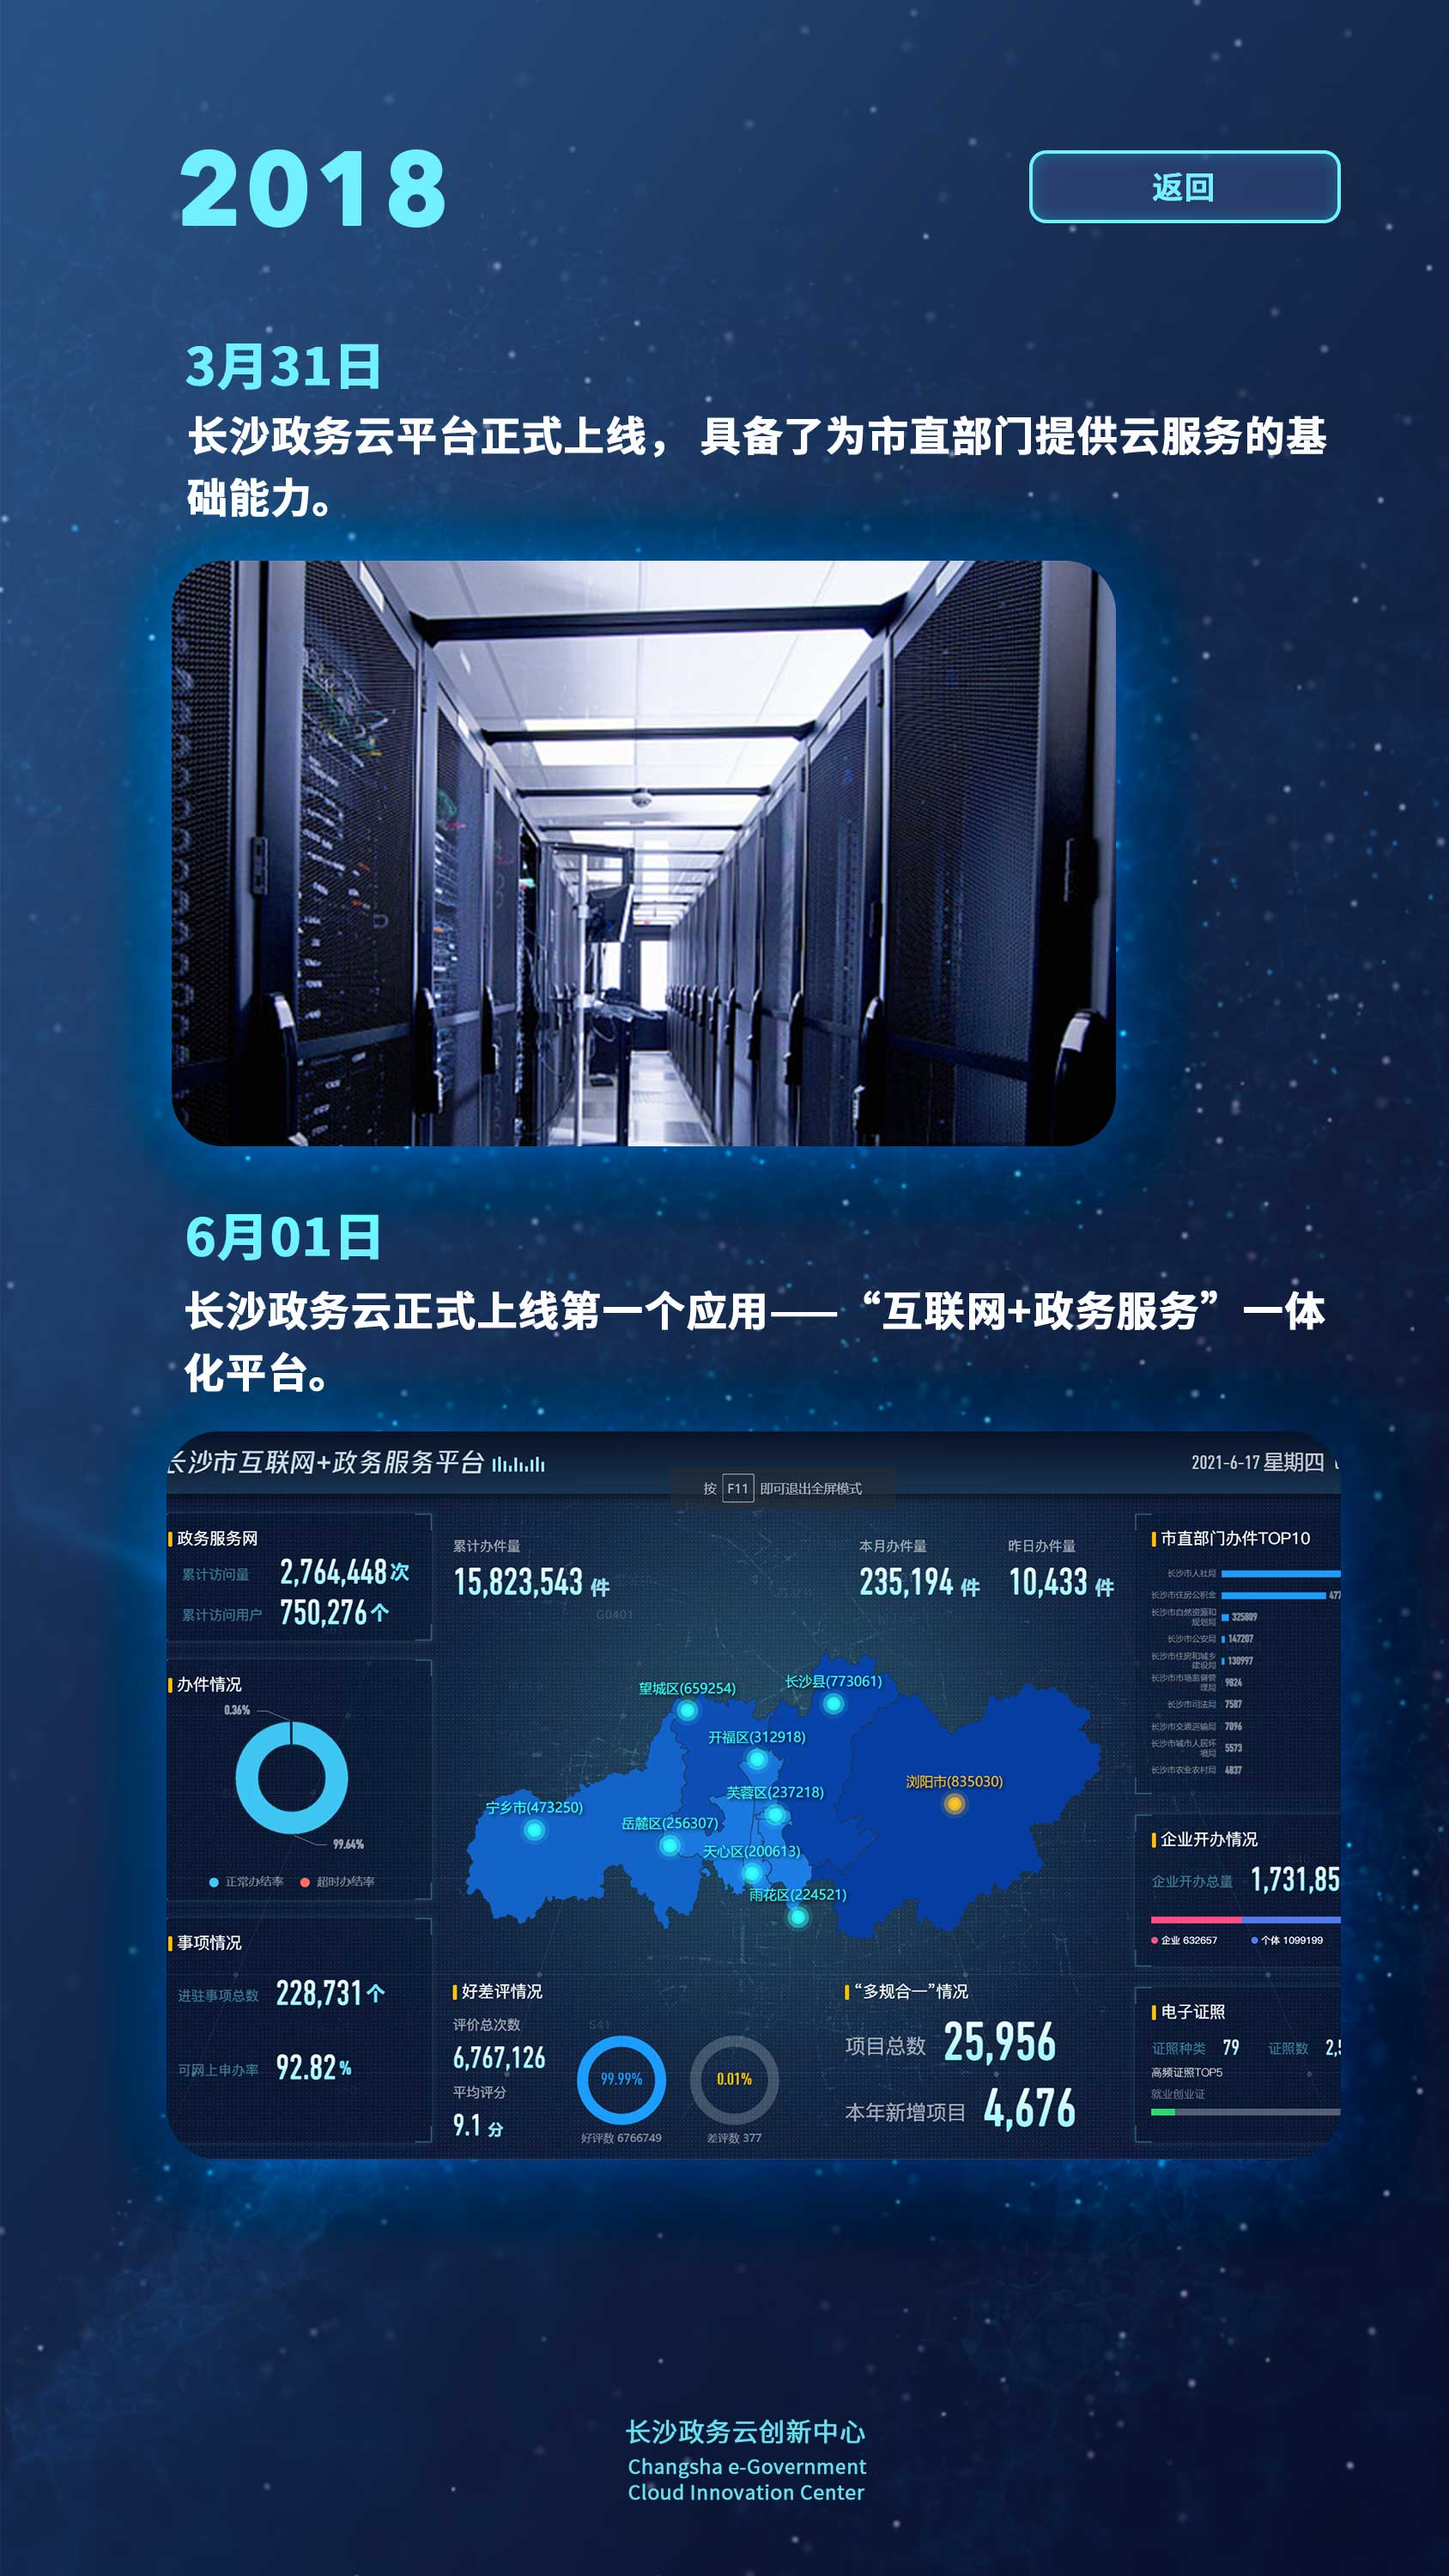
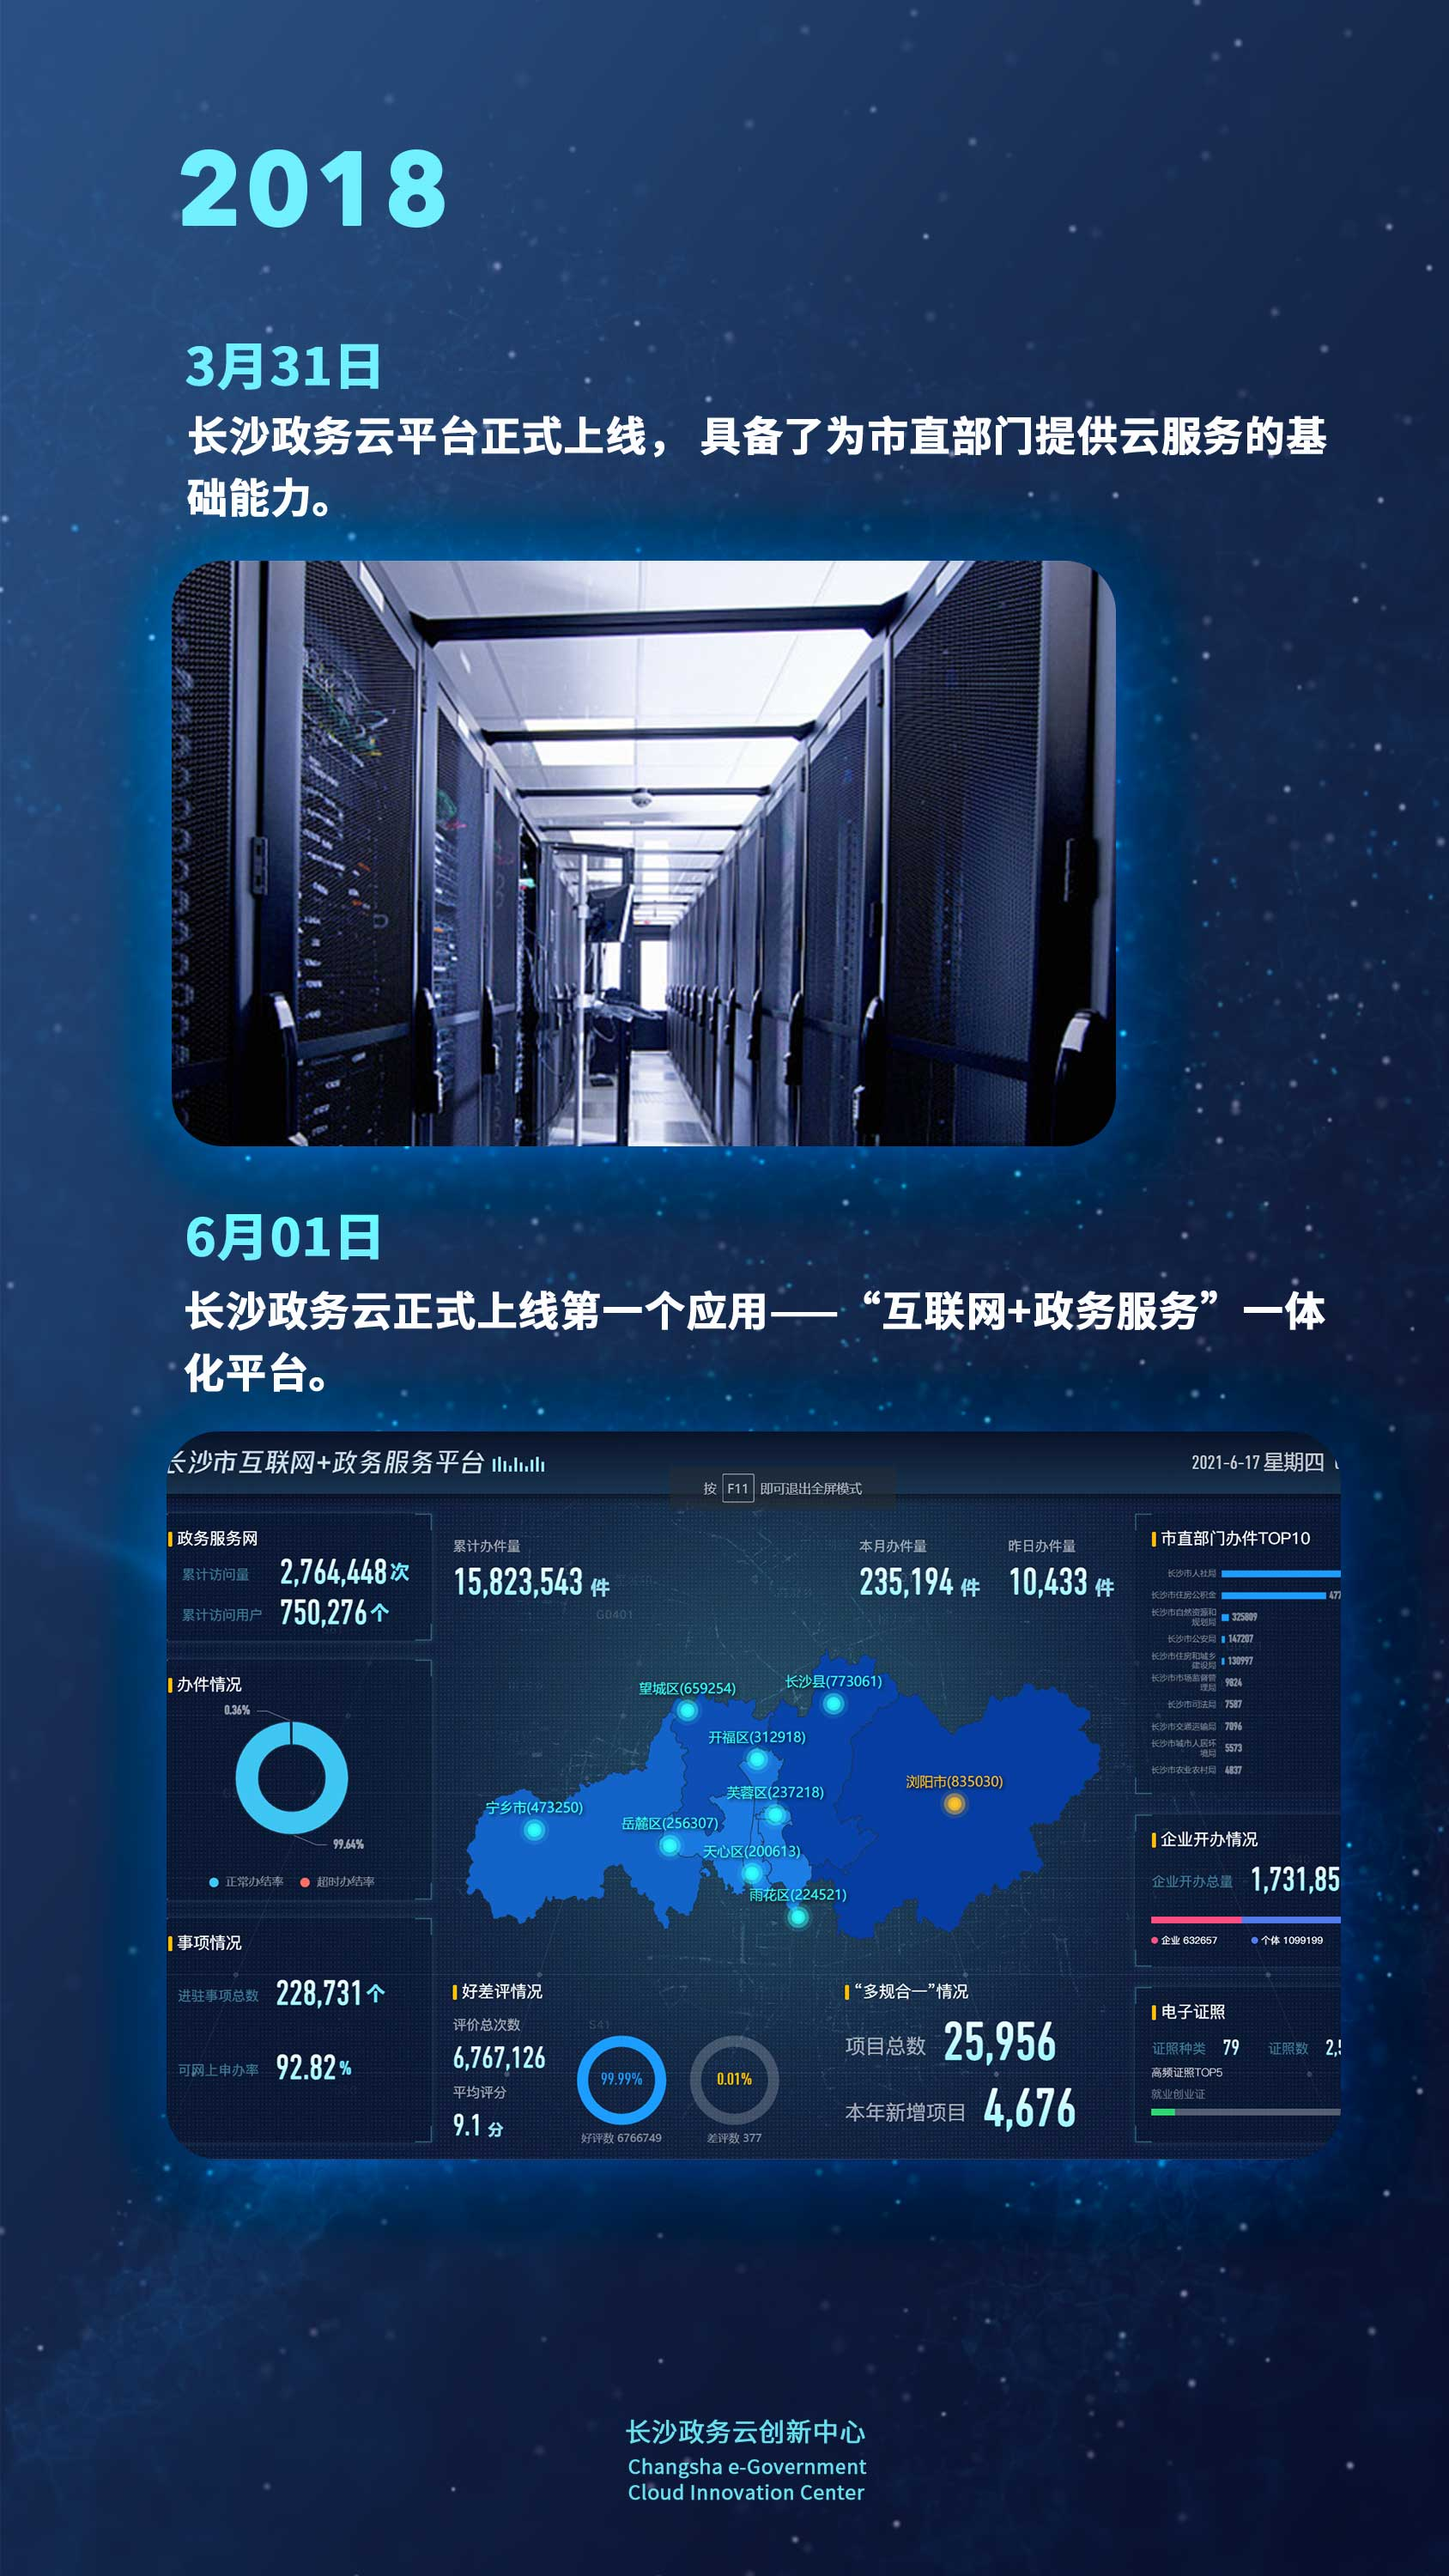
..

Changed region(s): [[0.7085, 0.031, 0.9242, 0.093]]

diff --git a/src/page/slideScreen/index.jsx b/src/page/slideScreen/index.jsx
@@ -23,7 +23,7 @@ const partMap = {
 }
 
 
-//总长度
+//总长度 
 const totalWidth = 12000;
 //起始左边距离
 const startMargin = 1230;
@@ -35,10 +35,14 @@ const lineItemMargin = 400;
 const moveTime = 2000
 
 
+//上下偏移
+const verOffset = 15
+
+
 function proxyRequest(actionName) {
     axios({
         method: 'post',
-        url: "http://192.168.1.177:8001",
+        url: "http://127.0.0.1:8001",
         data: {
             action: actionName
         }
@@ -112,7 +116,12 @@ class SlideScreen extends Component {
                     }}
                 >
                     <img className="bg" src={bgImage} />
-                    <div className="time-line">
+                    <div 
+                        className="time-line"
+                        style={{
+                            top:`${verOffset}%`
+                        }}
+                    >
                         <div className="throule-line"></div>
                         <img className="line-1" style={{ ...marginStyle, marginLeft: startMargin }} src={img1} />
                         <img className="line-2" style={marginStyle} src={img2} />

diff --git a/src/page/slideScreen/index.scss b/src/page/slideScreen/index.scss
@@ -28,22 +28,11 @@
                 margin-bottom: -176px;
             }
 
-            // .line-2 {
-            //     margin-bottom: -12px;
-            // }
-
-            // .line-3 {
-            //     margin-bottom: -176px;
-            // }
-
-            // .line-4 {
-            //     margin-bottom: -220px;
-            // }
 
             .throule-line {
                 position: absolute;
-                height: 40px;
-                background: #364493;
+                height: 50px;
+                background: #333;
                 left: 0;
                 bottom: 50%;
                 width: 100%;

diff --git a/src/page/slideScreen/components/part1/index.scss b/src/page/slideScreen/components/part1/index.scss
@@ -52,6 +52,11 @@
         padding: 10px 20px;
         overflow-y: scroll;
 
+        &::-webkit-scrollbar {
+            display: none;
+            /* Chrome Safari */
+        }
+
         // &::-webkit-scrollbar {
         //     width: 2px;
         //     height: 500px;

diff --git a/src/page/slideScreen/components/part5/index.scss b/src/page/slideScreen/components/part5/index.scss
@@ -14,6 +14,12 @@
         color: white;
         box-sizing: border-box;
         overflow-y: scroll;
+
+        &::-webkit-scrollbar {
+            display: none;
+            /* Chrome Safari */
+        }
+
         p {
             margin-bottom: 20px;
         }

diff --git a/src/page/slideScreen/components/commonPart/index.scss b/src/page/slideScreen/components/commonPart/index.scss
@@ -8,7 +8,8 @@
         width: 200px;
         height: 80px;
         right: 100px;
-        top: 100px;
+        bottom: 100px;
         z-index: 111;
+        background: url("../../../../assets/slideScreen/back-btn.png") 100%/100% no-repeat;
     }
 }

diff --git a/src/page/slideScreen/components/part3/index.scss b/src/page/slideScreen/components/part3/index.scss
@@ -11,6 +11,11 @@
         top: 200px;
         overflow-y: scroll;
 
+        &::-webkit-scrollbar {
+            display: none;
+            /* Chrome Safari */
+        }
+
         img {
             width: 100%;
         }
